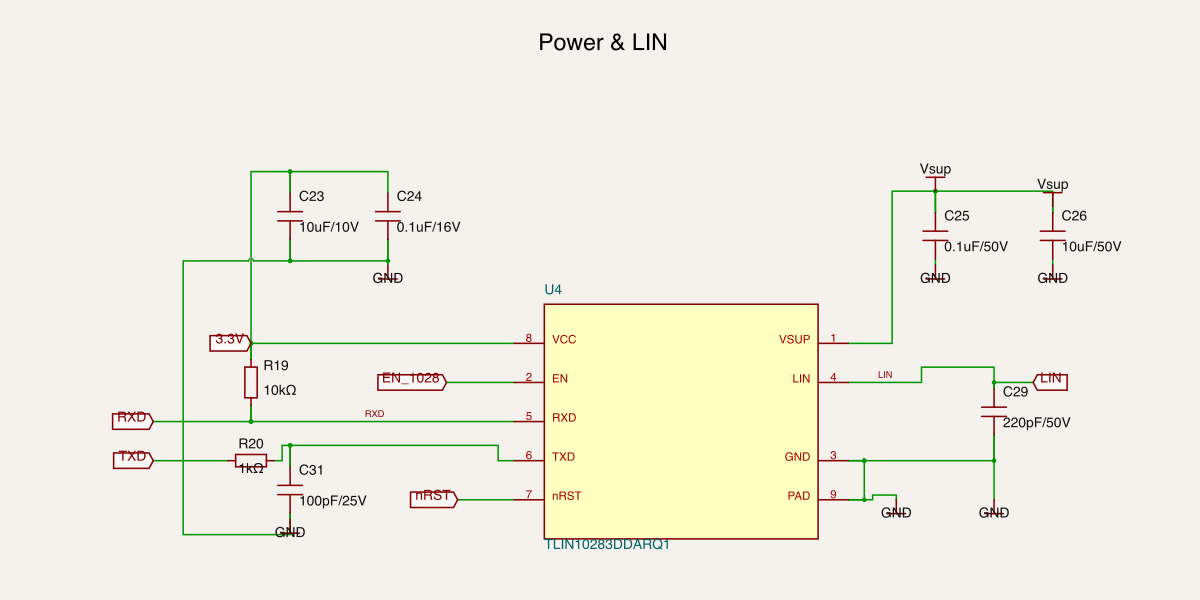
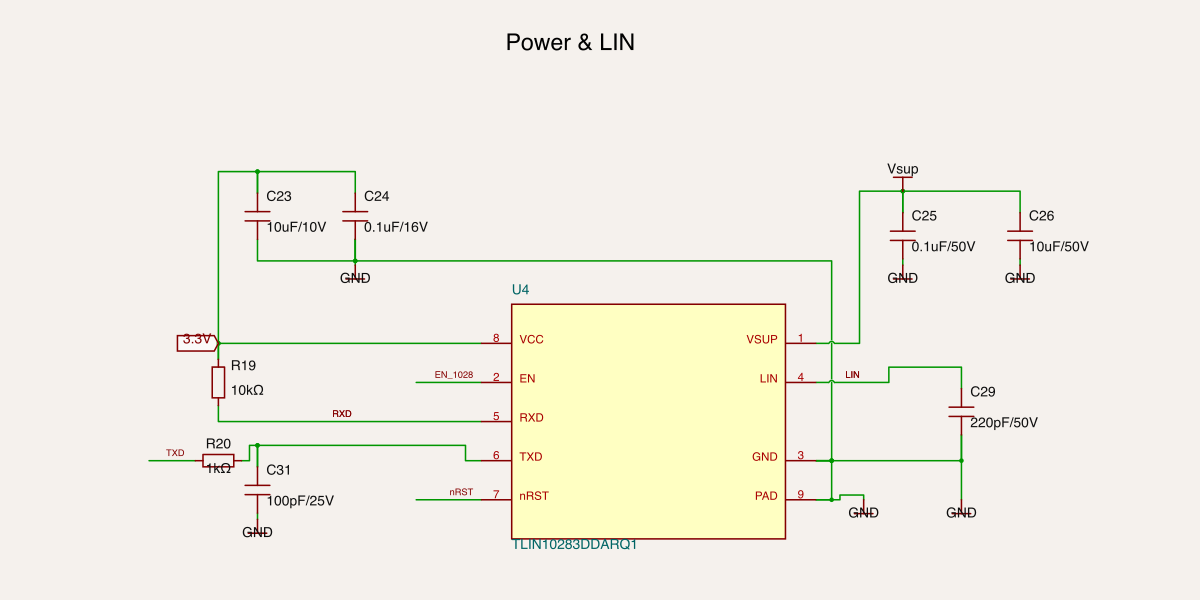
refactor(subcircuits): use native trace net labels

diff --git a/lib/subcircuits/CommunicationInterface_TLIN1028.circuit.tsx b/lib/subcircuits/CommunicationInterface_TLIN1028.circuit.tsx
@@ -19,7 +19,7 @@ export const CommunicationInterface_TLIN1028 = (props: SubcircuitProps) => (
   <subcircuit
     schMaxTraceDistance="12mm"
     autorouterEffortLevel="10x"
-    schTraceAutoLabelEnabled={false}
+    schTraceAutoLabelEnabled
     // This source extraction is schematic-only. PCB autorouting is intentionally
     // disabled while the native schematic autorouter remains active.
     routingDisabled
@@ -165,20 +165,8 @@ export const CommunicationInterface_TLIN1028 = (props: SubcircuitProps) => (
 
     {/* Logic-side signal boundaries. */}
     <trace from="U4.RXD" to="R19.pin2" />
-    <netlabel
-      net="RXD"
-      connectsTo="R19.pin2"
-      schX={-6.858}
-      schY={0}
-      anchorSide="right"
-    />
-    <netlabel
-      net="TXD"
-      connectsTo="R20.pin1"
-      schX={-6.858}
-      schY={-0.508}
-      anchorSide="right"
-    />
+    <trace from="R19.pin2" to="net.RXD" />
+    <trace from="R20.pin1" to="net.TXD" />
     <trace from="R20.pin2" to="U4.TXD" />
     <trace from="C31.pin1" to="R20.pin2" />
     <netlabel
@@ -188,20 +176,8 @@ export const CommunicationInterface_TLIN1028 = (props: SubcircuitProps) => (
       schY={-1.27}
       anchorSide="top"
     />
-    <netlabel
-      net="EN_1028"
-      connectsTo="U4.EN"
-      schX={-3.048}
-      schY={0.508}
-      anchorSide="right"
-    />
-    <netlabel
-      net="nRST"
-      connectsTo="U4.nRST"
-      schX={-2.904}
-      schY={-1.016}
-      anchorSide="right"
-    />
+    <trace from="U4.EN" to="net.EN_1028" />
+    <trace from="U4.nRST" to="net.nRST" />
 
     {/* VSUP rail and its two source-local bypass capacitors. */}
     <trace
@@ -214,13 +190,7 @@ export const CommunicationInterface_TLIN1028 = (props: SubcircuitProps) => (
       ]}
     />
     <trace from="C25.pin1" to="C26.pin1" />
-    <netlabel
-      net="Vsup"
-      connectsTo="C26.pin1"
-      schX={4.826}
-      schY={2.794}
-      anchorSide="bottom"
-    />
+    <trace from="C26.pin1" to="net.Vsup" />
     <netlabel
       net="GND"
       connectsTo="C25.pin2"
@@ -238,13 +208,7 @@ export const CommunicationInterface_TLIN1028 = (props: SubcircuitProps) => (
 
     {/* LIN bus shunt capacitor and external LIN boundary. */}
     <trace from="U4.LIN" to="C29.pin1" />
-    <netlabel
-      net="LIN"
-      connectsTo="C29.pin1"
-      schX={4.572}
-      schY={0.508}
-      anchorSide="left"
-    />
+    <trace from="C29.pin1" to="net.LIN" />
     <netlabel
       net="GND"
       connectsTo="C29.pin2"
